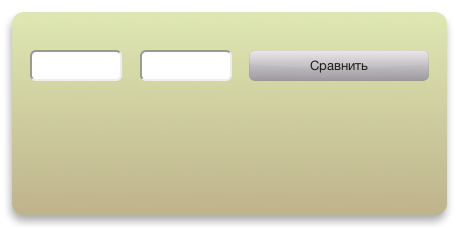
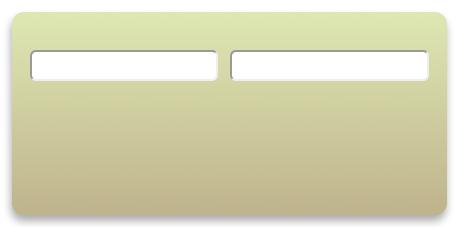
fix #3

Changed region(s): [[0.4575, 0.2149, 0.9455, 0.3684], [0.244, 0.2149, 0.3355, 0.3684]]

diff --git a/osx_dashcode_widget.dcproj/project/widget.wdgt/main.js b/osx_dashcode_widget.dcproj/project/widget.wdgt/main.js
@@ -11,44 +11,6 @@
 function load()
 {
     dashcode.setupParts();
-
-    document.getElementById('button-check').onclick = function() {
-        localizedString = dashcode.getLocalizedString('Check');
-        console.log(localizedString)
-        
-        var rgb1 = document.getElementById('rgb1').value;
-        var rgb2 = document.getElementById('rgb2').value;
-        if (/^[0-9A-F]{6}$/i.test(rgb1) && /^[0-9A-F]{6}$/i.test(rgb2)) {
-            var result = WCAGColorContrast.ratio(rgb1, rgb2);
-            document.getElementById('result').innerHTML = result.toFixed(1) + ':1';
-
-            var text1 = document.getElementById('example-text1');
-            text1.style.color = '#' + rgb1
-            if (result > 7) {
-                text1.innerHTML = 'Удовлетворяет';
-            } else {
-                text1.innerHTML = 'Не удовлетворяет';
-            }
-            
-            var text2 = document.getElementById('example-text2');
-            text2.style.color = '#' + rgb1;
-            if (result > 4.5) {
-                text2.innerHTML = 'Удовлетворяет';
-            } else {
-                text2.innerHTML = 'Не удовлетворяет';
-            }
-
-            
-            document.getElementById('example1').style.backgroundColor = '#' + rgb2;
-            document.getElementById('example1').style.border = '1px solid #' + rgb1;
-            
-            document.getElementById('example2').style.backgroundColor = '#' + rgb2;
-            document.getElementById('example2').style.border = '1px solid #' + rgb1;
-            
-        } else {
-            document.getElementById('result').innerHTML = 'Надо указать два цвета в HEX';
-        }
-    }
 }
 
 //
@@ -145,4 +107,65 @@ if (window.widget) {
     widget.onhide = hide;
     widget.onshow = show;
     widget.onsync = sync;
+}
+
+
+function onkeydown_rgb(event)
+{
+    if (event && event.which) {
+       var key = event.which;    
+       var char = String.fromCharCode(key);
+       if (/[a-f0-9]/i.test(char)) {
+           window.setTimeout(calcRatio, 1);
+       } else if (
+           key != 8/*backspace*/ && key != 9/*tab*/ && key != 13/*enter*/ && key != 46/*del*/
+           && !(key == 86 && (event.metaKey || event.ctrlKey))
+       ) {
+           event.preventDefault();
+       }
+    }
+}
+
+function onpaste_rgb(event) {
+    var input = event.target;
+    var oldValue = input.value;
+    window.setTimeout(function(){
+        if (WCAGColorContrast.validRGB(input.value)) {
+            calcRatio();
+        } else {
+            input.value = oldValue;
+        }
+    });
+}
+
+function calcRatio() {
+    var rgb1 = document.getElementById('rgb1').value;
+    var rgb2 = document.getElementById('rgb2').value;
+    if (WCAGColorContrast.validRGB(rgb1) && WCAGColorContrast.validRGB(rgb2)) {
+        var result = WCAGColorContrast.ratio(rgb1, rgb2);
+        document.getElementById('result').innerHTML = result.toFixed(1) + ':1';
+
+        var text1 = document.getElementById('example-text1');
+        text1.style.color = '#' + rgb1
+        if (result > 7) {
+            text1.innerHTML = 'Удовлетворяет';
+        } else {
+            text1.innerHTML = 'Не удовлетворяет';
+        }
+
+        var text2 = document.getElementById('example-text2');
+        text2.style.color = '#' + rgb1;
+        if (result > 4.5) {
+            text2.innerHTML = 'Удовлетворяет';
+        } else {
+            text2.innerHTML = 'Не удовлетворяет';
+        }
+
+        document.getElementById('example1').style.backgroundColor = '#' + rgb2;
+        document.getElementById('example1').style.border = '1px solid #' + rgb1;
+
+        document.getElementById('example2').style.backgroundColor = '#' + rgb2;
+        document.getElementById('example2').style.border = '1px solid #' + rgb1;
+
+    }
 }

diff --git a/osx_dashcode_widget.dcproj/project/widget.wdgt/main.html b/osx_dashcode_widget.dcproj/project/widget.wdgt/main.html
@@ -18,9 +18,8 @@
         <div id="example2" apple-part="com.apple.Dashcode.part.roundedrectangleshape" class="apple-no-children" apple-style="image-theme: 3; image-shape: 3; image-button-type: 3; image-opacity: 1.00; image-top-color: 1,0,0,1; image-bottom-color: 0.960815888,0.972826087,0.972826087,1; image-radius: 0,0,0,0; image-border: 0; image-border-color: 0,0,0,0.16; image-border-width: 1; shine-on: 0; shine-strength: 0.00; shine-alpha-level: 0.67; shine-height: 0.50; glass-arc-height: 0.06; embossed-on: 0; embossed-depth: 1; embossed-shadow: 0.68; embossed-highlight: 0.3; shadow-include-shadow: 0;"></div>
         <div id="example-text2" apple-part="com.apple.Dashcode.part.text" class="apple-text apple-no-children" apple-default-image-visibility="hidden" apple-text-overflow="ellipsis"></div>
         <div id="example-text1" apple-part="com.apple.Dashcode.part.text" class="apple-text apple-no-children" apple-default-image-visibility="hidden" apple-text-overflow="ellipsis"></div>
-        <input id="rgb1" type="text" maxlength="6" name="" value="" class="apple-textfield apple-no-children" apple-part="com.apple.Dashcode.part.textfield">
-        <input id="rgb2" type="text" maxlength="6" name="" value="" class="apple-textfield apple-no-children" apple-part="com.apple.Dashcode.part.textfield">
-        <div id="button-check" apple-part="com.apple.Dashcode.part.roundedtextbutton" class="apple-no-children" apple-style="image-theme: 1; image-shape: 3; image-button-type: 0; image-opacity: 1.00; image-top-color: 0.916090568,0.893471048,0.938710088,1; image-bottom-color: 0.489783543,0.491941478,0.554347826,1; image-radius: 6,6,6,6; image-border: 1; image-border-color: 0.5294,0.5294,0.5294,0.22; image-border-width: 1; shine-on: 1; shine-strength: 0.00; shine-alpha-level: 0.09; shine-height: 0.48; glass-arc-height: -0.23; embossed-on: 0; embossed-depth: 5.8; embossed-shadow: 0; embossed-highlight: 0; shadow-include-shadow: 0;"></div>
+        <input id="rgb1" type="text" maxlength="6" name="" value="" class="apple-textfield apple-no-children" apple-part="com.apple.Dashcode.part.textfield" onkeydown="onkeydown_rgb(event)" onpaste="onpaste_rgb(event)">
+        <input id="rgb2" type="text" maxlength="6" name="" value="" class="apple-textfield apple-no-children" apple-part="com.apple.Dashcode.part.textfield" onkeydown="onkeydown_rgb(event)" onpaste="onpaste_rgb(event)">
         <div id="text2" apple-part="com.apple.Dashcode.part.text" class="apple-text apple-no-children" apple-default-image-visibility="hidden" apple-text-overflow="ellipsis"></div>
         <div id="text3" apple-part="com.apple.Dashcode.part.text" class="apple-text apple-no-children" apple-default-image-visibility="hidden" apple-text-overflow="ellipsis"></div>
         <div id="result" apple-part="com.apple.Dashcode.part.text" class="apple-text apple-no-children" apple-default-image-visibility="hidden" apple-text-overflow="ellipsis"></div>

diff --git a/osx_dashcode_widget.dcproj/project/widget.wdgt/Parts/parts.js b/osx_dashcode_widget.dcproj/project/widget.wdgt/Parts/parts.js
@@ -9,7 +9,7 @@
 var dashcodePartSupport = {
     "core": ["Parts/core/utilities.js", "Parts/core/core/base.js", "Parts/core/core/array-additions.js", "Parts/core/core/array-additions-ie.js", "Parts/core/core/set.js", "Parts/core/core/oop.js", "Parts/core/core/function-additions.js", "Parts/core/core/object-additions.js", "Parts/core/core/regex-additions.js", "Parts/core/core/local.js", "Parts/core/core/Error.js", "Parts/core/core/kvo.js", "Parts/core/core/Bindable.js", "Parts/core/core/SortDescriptor.js", "Parts/core/core/transformers.js", "Parts/core/core/Binding.js", "Parts/core/core/kvo-array.js", "Parts/core/core/kvo-array-operators.js", "Parts/core/core/model.js", "Parts/core/core/string-additions.js", "Parts/core/net/Deferred.js", "Parts/core/net/XHR.js", "Parts/core/controllers/Controller.js", "Parts/core/controllers/SelectionProxy.js", "Parts/core/controllers/ObjectController.js", "Parts/core/controllers/ArrayController.js", "Parts/core/controllers/AjaxController.js", "Parts/core/controllers/ModeledXMLProxy.js", "Parts/core/dom/element.js", "Parts/core/dom/event.js", "Parts/core/dom/element-ie.js", "Parts/core/dom/event-ie.js", "Parts/core/views/view-parts.js", "Parts/core/views/view-core.js", "Parts/core/views/Responder.js", "Parts/core/views/View.js", "Parts/core/views/ViewController.js", "Parts/core/views/ImageView.js", "Parts/core/views/ImageLayout.js", "Parts/core/views/DashcodePart.js", "Parts/core/views/FormControl.js", "Parts/core/views/TextField.js", "Parts/core/views/ListView.js", "Parts/core/views/SelectField.js", "Parts/core/views/ToggleButton.js", "Parts/core/views/SearchField.js", "Parts/core/views/Slider.js", "Parts/core/views/EventLoop.js", "Parts/core/views/Page.js", "Parts/core/views/Media.js", "Parts/core/views/Video.js", "Parts/core/views/VideoLayout.js", "Parts/core/views/VideoLegacy.js"],
     "imageBgParts": {},
-    "scripts": ["Parts/setup.js", "Parts/datasources.js", "Parts/GlassButton.js", "Parts/Button.js", "Parts/Shape.js", "Parts/InfoButton.js"]
+    "scripts": ["Parts/setup.js", "Parts/datasources.js", "Parts/GlassButton.js", "Parts/Shape.js", "Parts/InfoButton.js"]
 };
 
 (function() {
@@ -24,5 +24,6 @@ var dashcodePartSupport = {
         document.write( scriptTag );
     }    
 })();
+
 
 

diff --git a/osx_dashcode_widget.dcproj/project/widget.wdgt/wcag-color-contrast.js b/osx_dashcode_widget.dcproj/project/widget.wdgt/wcag-color-contrast.js
@@ -4,7 +4,7 @@
  * @see http://www.w3.org/TR/WCAG20-TECHS/G17.html
  * @author Alexey Androsov <doochik@ya.ru>, Sergey Gorobtsov <grey-evil@ya.ru>
  * @licence GPLv3
- * @version 0.1
+ * @version 0.11
  */
 var WCAGColorContrast = {
 
@@ -15,8 +15,16 @@ var WCAGColorContrast = {
      * @return {Number}
      */
     ratio: function(rgb1, rgb2) {
-        var sRGB1 = this.RGBtosRGB(rgb1);
-        var sRGB2 = this.RGBtosRGB(rgb2);
+        if (this.validRGB(rgb1)) {
+            var sRGB1 = this.RGBtosRGB(rgb1);
+        } else {
+            throw 'Invalid color ' + rgb1;
+        }
+        if (this.validRGB(rgb2)) {
+            var sRGB2 = this.RGBtosRGB(rgb2);
+        } else {
+            throw 'Invalid color ' + rgb2;
+        }
 
         var L1 = this.sRGBLightness(sRGB1);
         var L2 = this.sRGBLightness(sRGB2);
@@ -36,6 +44,9 @@ var WCAGColorContrast = {
      * @return {Number[]} [R, G, B]
      */
     RGBtosRGB: function(rgb) {
+        if (rgb.length === 3) {
+            rgb += rgb;
+        }
         return [
             parseInt(rgb.slice(0,2), 16) / 255,
             parseInt(rgb.slice(2,4), 16) / 255,
@@ -60,5 +71,14 @@ var WCAGColorContrast = {
         return 0.2126 * (RsRGB <= 0.03928 ? RsRGB / 12.92 : Math.pow((RsRGB+0.055)/1.055, 2.4)) +
             0.7152 * (GsRGB <= 0.03928 ? GsRGB / 12.92 : Math.pow((GsRGB+0.055)/1.055, 2.4)) +
             0.0722 * (BsRGB <= 0.03928 ? BsRGB / 12.92 : Math.pow((BsRGB+0.055)/1.055, 2.4));
+    },
+
+    /**
+     * Validate RGB string.
+     * @param {String} rgb Color.
+     * @return {Boolean}
+     */
+    validRGB: function(rgb) {
+        return rgb && (/^[a-f0-9]{3}$/i.test(rgb) || /^[a-f0-9]{6}$/i.test(rgb));
     }
 };

diff --git a/osx_dashcode_widget.dcproj/project/widget.wdgt/main.css b/osx_dashcode_widget.dcproj/project/widget.wdgt/main.css
@@ -122,7 +122,7 @@ body {
     border-top-right-radius: 6px;
     border-bottom-left-radius: 6px;
     border-bottom-right-radius: 6px;
-    width: 86px;
+    width: 182px;
 }
 
 #rgb2 {
@@ -131,29 +131,14 @@ body {
     font-family: HelveticaNeue;
     text-align: center;
     height: 25px;
-    top: 50px;
     font-size: 13pt;
     border-top-left-radius: 6px;
     border-top-right-radius: 6px;
     border-bottom-left-radius: 6px;
     border-bottom-right-radius: 6px;
-    width: 86px;
-    left: 140px;
-}
-
-#button-check {
-    text-align: center;
-    cursor: default;
-    -khtml-user-select: none;
-    position: absolute;
-    width: 180px;
-    font-family: 'Helvetica Neue';
-    opacity: 0.86;
-    color: rgb(0, 0, 0);
-    height: 31px;
+    left: 230px;
     top: 50px;
-    font-size: 13px;
-    left: 249px;
+    width: 193px;
 }
 
 #text2 {
@@ -161,14 +146,14 @@ body {
     overflow: hidden;
     position: absolute;
     white-space: nowrap;
-    text-align: center;
     height: 18px;
     top: 28px;
     font-family: Arial;
     font-size: 13px;
     left: 30px;
-    right: 339px;
+    right: 241px;
     width: auto;
+    text-align: center;
 }
 
 .selected #text2 {
@@ -180,14 +165,14 @@ body {
     overflow: hidden;
     position: absolute;
     white-space: nowrap;
-    text-align: center;
     height: 18px;
     top: 28px;
     font-family: Arial;
     font-size: 13px;
-    left: 140px;
-    right: 229px;
+    left: 230px;
+    right: 30px;
     width: auto;
+    text-align: center;
 }
 
 .selected #text3 {

diff --git a/osx_dashcode_widget.dcproj/project/widget.wdgt/Parts/setup.js b/osx_dashcode_widget.dcproj/project/widget.wdgt/Parts/setup.js
@@ -5,7 +5,6 @@
  code generator otherwise the changes will be lost.
  */
 var dashcodePartSpecs = {
-    "button-check": { "creationFunction": "CreateButton", "leftImageWidth": 6, "rightImageWidth": 6, "text": "Сравнить" },
     "done": { "creationFunction": "CreateGlassButton", "onclick": "showFront", "text": "Done" },
     "example-text1": { "view": "DC.Text" },
     "example-text2": { "view": "DC.Text" },
@@ -19,6 +18,7 @@ var dashcodePartSpecs = {
     "text3": { "text": "Фон #", "view": "DC.Text" },
     "text4": { "text": "https://github.com/doochik/wcag-color-contrast", "view": "DC.Text" }
 };
+
 
 
 
